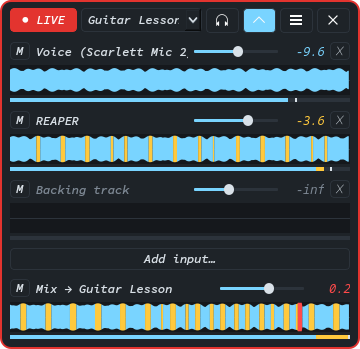
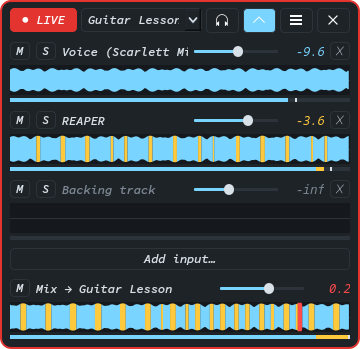
Add solo, and fix Listen never finding the default output
- Solo per input, as in a DAW: while any input is soloed only soloed
  inputs are heard, on the call too, and mute still wins. Saved with the
  mic.
- pw-dump prints a metadata object's properties at the top level, not
  under "info", so the default output was never found and Listen had
  nothing to link to. The test fixture carried both, hiding it.

Changed region(s): [[0.0917, 0.5158, 0.4278, 0.5731], [0.0917, 0.1146, 0.5194, 0.1719], [0.0917, 0.3152, 0.3056, 0.3725]]

diff --git a/onemic/ui/channel_row.py b/onemic/ui/channel_row.py
@@ -59,6 +59,7 @@ class ChannelRow(QWidget):
 
     gain_changed = Signal(str, float)
     mute_toggled = Signal(str, bool)
+    solo_toggled = Signal(str, bool)
     remove_requested = Signal(str)
 
     def __init__(
@@ -82,6 +83,9 @@ class ChannelRow(QWidget):
         self._title.setSizePolicy(QSizePolicy.Policy.Ignored, QSizePolicy.Policy.Preferred)
         self._peak_colour = ""
         self._mute = self._small_button(tool_button("M", "Mute", checkable=True, name="mute"))
+        self._solo = self._small_button(
+            tool_button("S", "Solo: hear only soloed inputs, on the call too", checkable=True, name="solo")
+        )
         self._remove = self._small_button(tool_button("✕", "Remove this input", name="remove"))
         self._slider = self._gain_slider()
         self._peak = QLabel(format_peak(0.0))
@@ -93,22 +97,32 @@ class ChannelRow(QWidget):
         self._build_layout()
         self._connect()
 
-    def set_values(self, label: str, gain: float, muted: bool) -> None:
+    def set_values(self, label: str, gain: float, muted: bool, soloed: bool = False) -> None:
         """Show saved settings without echoing them back as user changes.
 
         @param label: the name to show.
         @param gain: the gain, where 1.0 is unity.
         @param muted: the mute state.
+        @param soloed: the solo state.
         """
         self._title.setText(label)
         self._title.setToolTip(label)
-        for widget in (self._slider, self._mute):
+        controls = (self._slider, self._mute, self._solo)
+        for widget in controls:
             widget.blockSignals(True)
         self._slider.setValue(round(gain * 100))
         self._slider.setToolTip(f"{round(gain * 100)}%")
         self._mute.setChecked(muted)
-        for widget in (self._slider, self._mute):
+        self._solo.setChecked(soloed)
+        for widget in controls:
             widget.blockSignals(False)
+
+    def set_soloable(self, soloable: bool) -> None:
+        """Show the solo button only on inputs, since soloing the mix itself means nothing.
+
+        @param soloable: False for the mix row.
+        """
+        self._solo.setVisible(soloable)
 
     def set_state(self, state: InputState) -> None:
         """Dim the name while the signal is not reaching the mic.
@@ -179,6 +193,7 @@ class ChannelRow(QWidget):
         controls = QHBoxLayout()
         controls.setSpacing(6)
         controls.addWidget(self._mute)
+        controls.addWidget(self._solo)
         controls.addWidget(self._title, 1)
         controls.addWidget(self._slider)
         controls.addWidget(self._peak)
@@ -193,6 +208,7 @@ class ChannelRow(QWidget):
     def _connect(self) -> None:
         self._slider.valueChanged.connect(self._on_slider)
         self._mute.toggled.connect(lambda muted: self.mute_toggled.emit(self.key, muted))
+        self._solo.toggled.connect(lambda soloed: self.solo_toggled.emit(self.key, soloed))
         self._remove.clicked.connect(lambda: self.remove_requested.emit(self.key))
 
     def _on_slider(self, value: int) -> None:

diff --git a/onemic/ui/main_window.py b/onemic/ui/main_window.py
@@ -44,6 +44,7 @@ class MainWindow(QWidget):
 
     input_gain_changed = Signal(str, float)
     input_mute_toggled = Signal(str, bool)
+    input_solo_toggled = Signal(str, bool)
     input_remove_requested = Signal(str)
     mix_gain_changed = Signal(float)
     mix_mute_toggled = Signal(bool)
@@ -86,7 +87,7 @@ class MainWindow(QWidget):
         if list(self._rows) != [settings.id for settings in profile.inputs]:
             self._rebuild_rows(profile)
         for settings in profile.inputs:
-            self._rows[settings.id].set_values(settings.label, settings.gain, settings.muted)
+            self._rows[settings.id].set_values(settings.label, settings.gain, settings.muted, settings.soloed)
         self._mix.set_values(f"Mix → {profile.name}", profile.gain, profile.muted)
         self._update_visibility()
 
@@ -190,6 +191,7 @@ class MainWindow(QWidget):
     def _make_mix_row(self) -> ChannelRow:
         row = ChannelRow(MIX_TAP, self._palette, self._thresholds)
         row.set_removable(False)
+        row.set_soloable(False)
         row.gain_changed.connect(lambda _, gain: self.mix_gain_changed.emit(gain))
         row.mute_toggled.connect(lambda _, muted: self.mix_mute_toggled.emit(muted))
         return row
@@ -202,6 +204,7 @@ class MainWindow(QWidget):
             row = ChannelRow(settings.id, self._palette, self._thresholds)
             row.gain_changed.connect(self.input_gain_changed.emit)
             row.mute_toggled.connect(self.input_mute_toggled.emit)
+            row.solo_toggled.connect(self.input_solo_toggled.emit)
             row.remove_requested.connect(self.input_remove_requested.emit)
             self._inputs.addWidget(row)
             self._rows[settings.id] = row

diff --git a/onemic/domain/profile.py b/onemic/domain/profile.py
@@ -68,6 +68,7 @@ class InputSettings:
     label: str
     gain: float = 1.0
     muted: bool = False
+    soloed: bool = False
 
 
 @dataclass(frozen=True)
@@ -131,6 +132,28 @@ class MicProfile:
         @return: a copy of the mic with the new mute state.
         """
         return self._replace_input(replace(self.input(input_id), muted=muted))
+
+    def with_input_soloed(self, input_id: str, soloed: bool) -> MicProfile:
+        """Solo or unsolo one input.
+
+        @param input_id: the input's generated id.
+        @param soloed: True to hear this input alongside any other soloed ones only.
+        @return: a copy of the mic with the new solo state.
+        """
+        return self._replace_input(replace(self.input(input_id), soloed=soloed))
+
+    def is_silenced(self, settings: InputSettings) -> bool:
+        """Decide whether an input is heard, taking every input's solo into account.
+
+        Solo works as it does in a DAW: while any input is soloed, only
+        soloed inputs are heard. Mute still wins, so a muted input stays
+        silent even when soloed.
+
+        @param settings: one of this mic's inputs.
+        @return: True if the input should be silent.
+        """
+        any_soloed = any(item.soloed for item in self.inputs)
+        return settings.muted or (any_soloed and not settings.soloed)
 
     def with_gain(self, gain: float) -> MicProfile:
         """Change the master gain applied to the whole mix.

diff --git a/onemic/ui/theme.py b/onemic/ui/theme.py
@@ -55,7 +55,10 @@ def stylesheet(palette: Palette) -> str:
     QPushButton#live {{ font-weight: bold; padding: 3px 10px; }}
     QPushButton#live:checked {{ background: {palette.live}; border-color: {palette.live}; color: white; }}
     QToolButton:checked {{ background: {palette.ice}; color: {palette.background}; }}
-    QToolButton#mute, QToolButton#remove {{ padding: 0; font-weight: bold; }}
+    QToolButton#mute, QToolButton#solo, QToolButton#remove {{ padding: 0; font-weight: bold; }}
+    QToolButton#solo:checked {{
+        background: {palette.hot}; color: {palette.background}; border-color: {palette.hot};
+    }}
     QToolButton#mute:checked {{ background: {palette.muted}; color: white; border-color: {palette.muted}; }}
     QToolButton::menu-indicator {{ image: none; width: 0; }}
     QSlider::groove:horizontal {{ height: 3px; background: {palette.border}; border-radius: 1px; }}

diff --git a/tests/test_profile.py b/tests/test_profile.py
@@ -85,3 +85,23 @@ def test_renaming_validates_and_changes_the_slug() -> None:
     assert renamed.slug == "new-name"
     with pytest.raises(ProfileError):
         renamed.renamed('bad"name')
+
+
+def test_solo_silences_every_input_that_is_not_soloed() -> None:
+    profile = MicProfile("L", (GUITAR, VOICE)).with_input_soloed("g1", True)
+
+    assert not profile.is_silenced(profile.input("g1"))
+    assert profile.is_silenced(profile.input("v1"))
+
+
+def test_without_solo_only_mute_silences() -> None:
+    profile = MicProfile("L", (GUITAR, VOICE)).with_input_muted("v1", True)
+
+    assert profile.is_silenced(profile.input("v1"))
+    assert not profile.is_silenced(profile.input("g1"))
+
+
+def test_mute_wins_over_solo() -> None:
+    profile = MicProfile("L", (GUITAR,)).with_input_soloed("g1", True).with_input_muted("g1", True)
+
+    assert profile.is_silenced(profile.input("g1"))

diff --git a/onemic/infrastructure/pipewire.py b/onemic/infrastructure/pipewire.py
@@ -117,8 +117,17 @@ def _links(objects: Sequence[JsonObject]) -> frozenset[Link]:
 
 
 def _default_sink(objects: Sequence[JsonObject]) -> str | None:
+    """Find the default output's name in the default metadata object.
+
+    Unlike nodes and ports, pw-dump prints a metadata object's properties
+    at the top level rather than under "info".
+
+    @param objects: the decoded array pw-dump prints.
+    @return: the default output's node name, or None if none is set.
+    """
     for item in _of_type(objects, _METADATA):
-        if _props(item).get("metadata.name") != "default":
+        props: JsonObject = item.get("props") or {}
+        if props.get("metadata.name") != "default":
             continue
         for entry in item.get("metadata") or []:
             if entry.get("key") == "default.audio.sink":

diff --git a/tests/ui/test_channel_row.py b/tests/ui/test_channel_row.py
@@ -86,3 +86,14 @@ def test_the_level_meter_follows_new_audio(qtbot: QtBot) -> None:
 
     assert loud == pytest.approx(-6.02, abs=0.01)
     assert widget.meter._level_db == pytest.approx(loud - 12.0, abs=0.01)
+
+
+def test_solo_reports_the_row_key_and_shows_without_echo(qtbot: QtBot, row: ChannelRow) -> None:
+    with qtbot.assertNotEmitted(row.solo_toggled):
+        row.set_values("Voice", 1.0, muted=False, soloed=True)
+    assert row._solo.isChecked()
+
+    with qtbot.waitSignal(row.solo_toggled) as soloed:
+        row._solo.click()
+
+    assert soloed.args == ["v1", False]

diff --git a/tests/ui/test_main_window.py b/tests/ui/test_main_window.py
@@ -141,3 +141,11 @@ def test_status_updates_never_blank_the_meters(window: MainWindow) -> None:
     assert window._rows["i0"]._peak.text() == "-6.0"
     assert window._rows["i0"].waveform._columns == reading.columns
     assert window._rows["i0"]._title.styleSheet() == style
+
+
+def test_inputs_can_be_soloed_but_the_mix_cannot(qtbot: QtBot, window: MainWindow) -> None:
+    with qtbot.waitSignal(window.input_solo_toggled) as soloed:
+        window._rows["i0"]._solo.click()
+
+    assert soloed.args == ["i0", True]
+    assert window._mix._solo.isHidden()

diff --git a/onemic/services/session.py b/onemic/services/session.py
@@ -261,7 +261,9 @@ class MicSession:
         names = NodeNames(profile.slug)
         self._levels.apply(graph.node(names.mic), profile.gain, profile.muted)
         for settings in profile.inputs:
-            self._levels.apply(graph.node(names.stage_output(settings.id)), settings.gain, settings.muted)
+            self._levels.apply(
+                graph.node(names.stage_output(settings.id)), settings.gain, profile.is_silenced(settings)
+            )
 
     @staticmethod
     def _try(action: Callable[[Link], None], link: Link) -> None:

diff --git a/onemic/infrastructure/stores.py b/onemic/infrastructure/stores.py
@@ -59,6 +59,7 @@ def _input_to_json(settings: InputSettings) -> dict[str, Any]:
         "label": settings.label,
         "gain": settings.gain,
         "muted": settings.muted,
+        "soloed": settings.soloed,
     }
 
 
@@ -69,6 +70,7 @@ def _input_from_json(item: Mapping[str, Any]) -> InputSettings:
         label=str(item.get("label") or item["source"]),
         gain=clamp_gain(float(item.get("gain", 1.0))),
         muted=bool(item.get("muted", False)),
+        soloed=bool(item.get("soloed", False)),
     )
 
 

diff --git a/tests/test_session.py b/tests/test_session.py
@@ -324,3 +324,13 @@ def test_preview_changes_nothing_while_live(wire: FakePipeWire) -> None:
 
     assert session.preview(LESSON).live
     assert wire.links == links
+
+
+def test_soloing_an_input_mutes_the_others_on_the_mic(wire: FakePipeWire) -> None:
+    session = session_for(wire)
+    session.go_live(LESSON)
+
+    session.apply_levels(LESSON.with_input_soloed("g1", True))
+
+    assert wire.mutes[wire.node(NAMES.stage_output("v1")).id] is True
+    assert wire.mutes[wire.node(NAMES.stage_output("g1")).id] is False

diff --git a/onemic/ui/controller.py b/onemic/ui/controller.py
@@ -93,6 +93,9 @@ class AppController(QObject):
         window.input_mute_toggled.connect(
             lambda key, muted: self._edit_levels(lambda profile: profile.with_input_muted(key, muted))
         )
+        window.input_solo_toggled.connect(
+            lambda key, soloed: self._edit_levels(lambda profile: profile.with_input_soloed(key, soloed))
+        )
         window.mix_gain_changed.connect(
             lambda gain: self._edit_levels(lambda profile: profile.with_gain(gain))
         )
